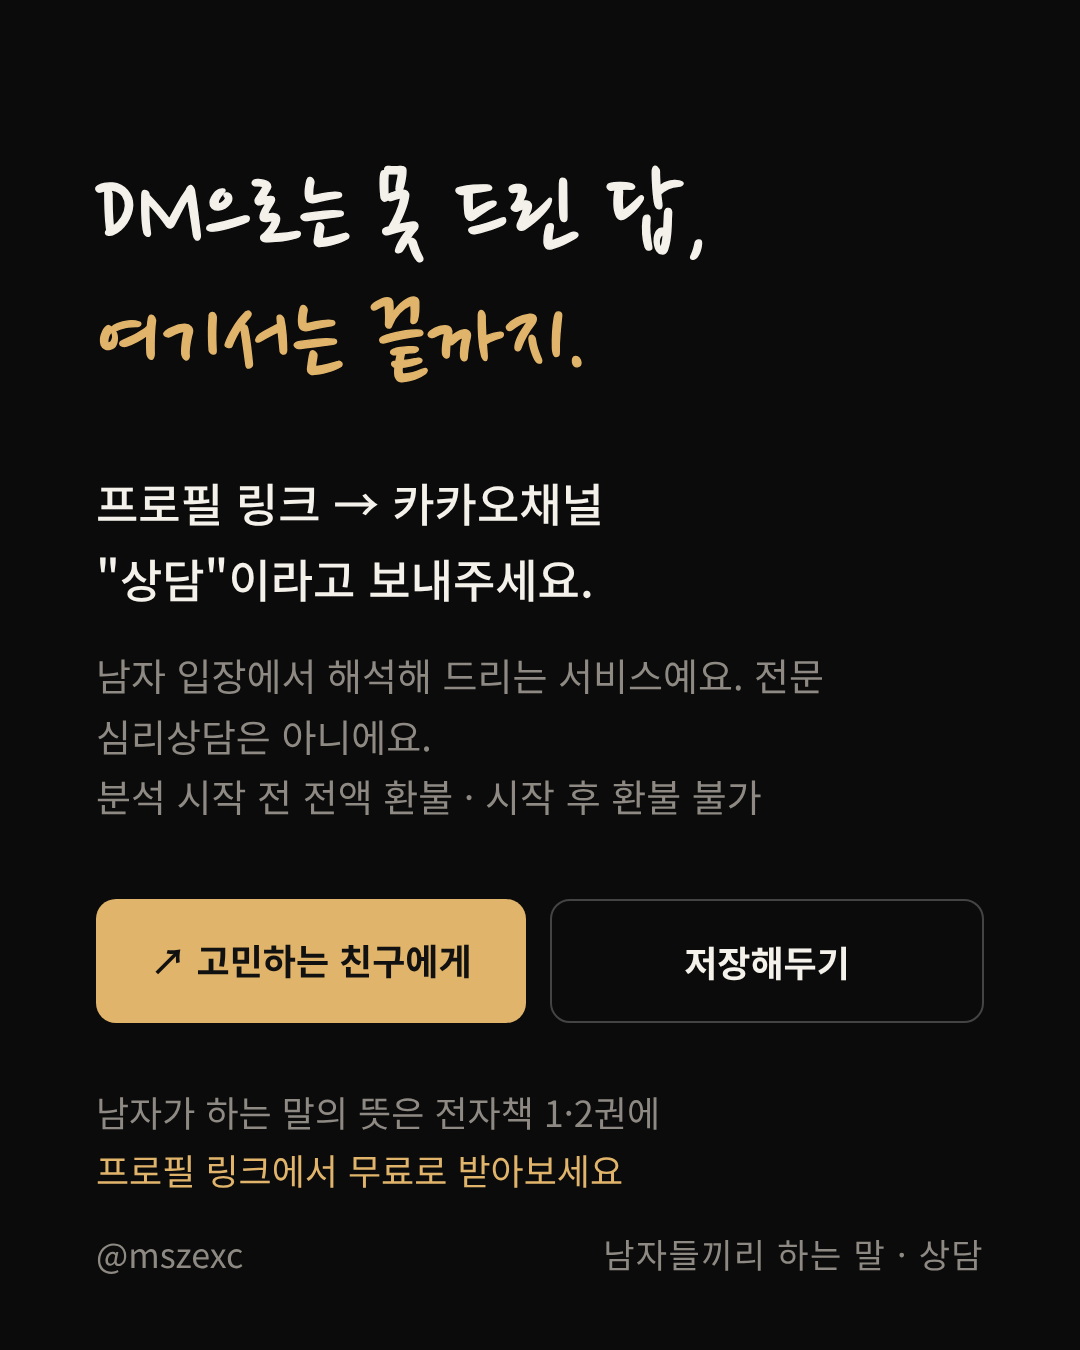
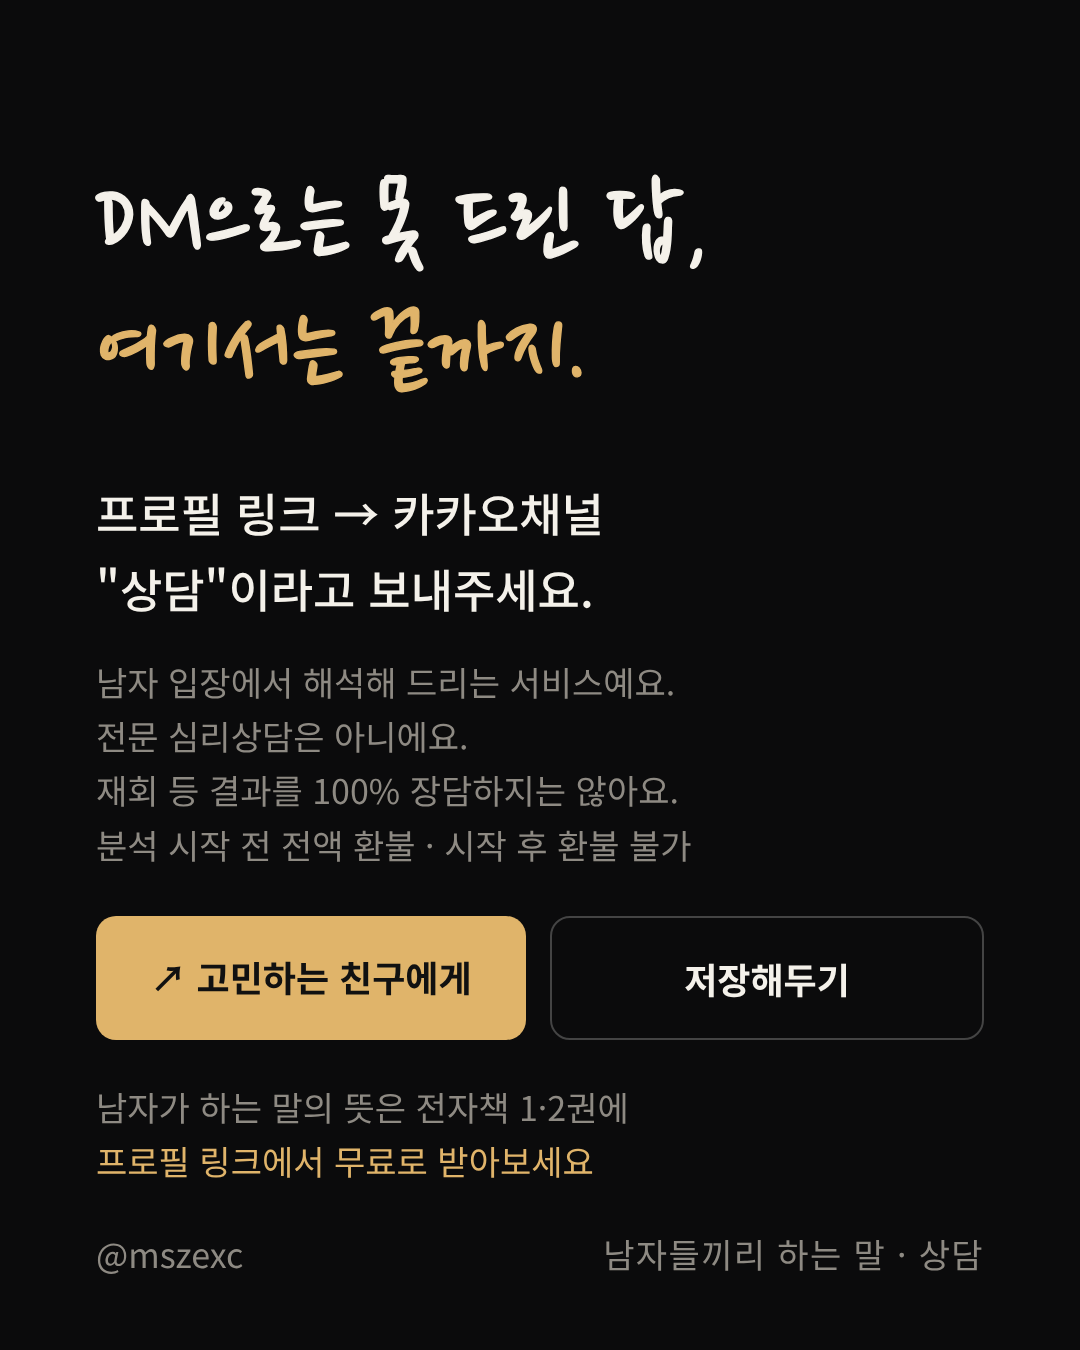
상담 신청서: 안전 확인 칸 삭제, 결과 100% 비보장 문구·확인란 추가
Claude-Session: https://claude.ai/code/session_01J9i5yL8MFhQ5W67Sx3nDW6

diff --git a/carousel/carousel_consult.html b/carousel/carousel_consult.html
@@ -277,12 +277,12 @@
 <section class="slide" id="s10">
   <div class="pen h2">DM으로는 못 드린 답,<br><span class="accent">여기서는 끝까지.</span></div>
   <div class="body mt-m">프로필 링크 → 카카오채널<br>"상담"이라고 보내주세요.</div>
-  <div class="small mt-s">남자 입장에서 해석해 드리는 서비스예요. 전문 심리상담은 아니에요.<br>분석 시작 전 전액 환불 · 시작 후 환불 불가</div>
-  <div class="btns">
+  <div class="small mt-s" style="font-size:34px !important">남자 입장에서 해석해 드리는 서비스예요.<br>전문 심리상담은 아니에요.<br>재회 등 결과를 100% 장담하지는 않아요.<br>분석 시작 전 전액 환불 · 시작 후 환불 불가</div>
+  <div class="btns" style="margin-top:44px">
     <div class="btn share">↗ 고민하는 친구에게</div>
     <div class="btn save">저장해두기</div>
   </div>
-  <div class="sub" style="font-size:36px">남자가 하는 말의 뜻은 전자책 1·2권에<br><span class="accent">프로필 링크에서 무료로 받아보세요</span></div>
+  <div class="sub" style="font-size:34px;margin-top:40px">남자가 하는 말의 뜻은 전자책 1·2권에<br><span class="accent">프로필 링크에서 무료로 받아보세요</span></div>
   <div class="handle">@mszexc</div>
   <div class="series">남자들끼리 하는 말 · 상담</div>
 </section>

diff --git a/consult/menu.py b/consult/menu.py
@@ -51,11 +51,13 @@ GUIDE = '''[남자들끼리 하는 말 · 남자 심리 분석]
 3) 신청서 + 사진 + 캡처를 보내주시면 분석을 시작합니다
 
 ※ 남자 입장에서 상황을 해석해 드리는 서비스이며, 전문 심리상담이 아닙니다.
+※ 재회, 관계 회복 등 원하시는 결과를 100% 장담하지 않습니다. 상대의 마음과 선택은 상대에게 달려 있어서, 제가 드리는 건 가능성을 높이는 해석과 방법입니다.
 ※ 분석 작성 시작 전에는 전액 환불, 시작 후에는 환불이 어렵습니다.
 ※ 오픈 기념: 첫 10분이 B를 신청하시면 카톡 첨삭 2건을 무료로 드려요.'''
 FORM = '''[남자들끼리 하는 말 · 남자 심리 분석 신청서]
 
 ※ 남자 입장에서 상황을 해석해 드리는 서비스이며, 전문 심리상담이 아닙니다.
+※ 재회, 관계 회복 등 원하시는 결과를 100% 장담하지 않습니다. 상대의 마음과 선택은 상대에게 달려 있어서, 제가 드리는 건 가능성을 높이는 해석과 방법입니다.
 ※ 신청 상품: □ A 남자 심리 분석  □ B 분석 + 대본  □ C 4주 플랜
 
 ■ 1. 기본 정보
@@ -94,11 +96,8 @@ FORM = '''[남자들끼리 하는 말 · 남자 심리 분석 신청서]
 20) □ 재회  □ 관계 회복  □ 그의 속마음만 알고 싶음  □ 깔끔하게 정리  □ 아직 모르겠음
 21) 꼭 답받고 싶은 질문 (1~3개):
 
-■ 8. 안전 확인
-22) 상대에게 폭언, 폭력, 위협, 집착(스토킹)을 겪고 있나요? 예 / 아니요
-   → "예"라면 상담보다 안전이 먼저예요. 여성긴급전화 1366(24시간)에 먼저 연락해 주세요.
-
-■ 9. 개인정보 동의
+■ 8. 확인 및 개인정보 동의
+□ (필수) 재회·관계 회복 등 원하는 결과를 100% 장담하지 않는다는 점을 확인했습니다.
 □ (필수) 이름, 나이, 사진, 대화 내용을 상담 목적으로만 수집·이용하는 데 동의합니다.
    사진은 상담 종료 즉시, 나머지 정보는 상담 종료 30일 후 삭제합니다.
 □ (선택) 이름과 상황을 바꾼 익명 사연으로 콘텐츠에 쓰는 데 동의합니다.'''

diff --git a/consult/menu.md b/consult/menu.md
@@ -69,6 +69,7 @@
 3) 신청서 + 사진 + 캡처를 보내주시면 분석을 시작합니다
 
 ※ 남자 입장에서 상황을 해석해 드리는 서비스이며, 전문 심리상담이 아닙니다.
+※ 재회, 관계 회복 등 원하시는 결과를 100% 장담하지 않습니다. 상대의 마음과 선택은 상대에게 달려 있어서, 제가 드리는 건 가능성을 높이는 해석과 방법입니다.
 ※ 분석 작성 시작 전에는 전액 환불, 시작 후에는 환불이 어렵습니다.
 ※ 오픈 기념: 첫 10분이 B를 신청하시면 카톡 첨삭 2건을 무료로 드려요.
 ```
@@ -78,6 +79,7 @@
 [남자들끼리 하는 말 · 남자 심리 분석 신청서]
 
 ※ 남자 입장에서 상황을 해석해 드리는 서비스이며, 전문 심리상담이 아닙니다.
+※ 재회, 관계 회복 등 원하시는 결과를 100% 장담하지 않습니다. 상대의 마음과 선택은 상대에게 달려 있어서, 제가 드리는 건 가능성을 높이는 해석과 방법입니다.
 ※ 신청 상품: □ A 남자 심리 분석  □ B 분석 + 대본  □ C 4주 플랜
 
 ■ 1. 기본 정보
@@ -116,11 +118,8 @@
 20) □ 재회  □ 관계 회복  □ 그의 속마음만 알고 싶음  □ 깔끔하게 정리  □ 아직 모르겠음
 21) 꼭 답받고 싶은 질문 (1~3개):
 
-■ 8. 안전 확인
-22) 상대에게 폭언, 폭력, 위협, 집착(스토킹)을 겪고 있나요? 예 / 아니요
-   → "예"라면 상담보다 안전이 먼저예요. 여성긴급전화 1366(24시간)에 먼저 연락해 주세요.
-
-■ 9. 개인정보 동의
+■ 8. 확인 및 개인정보 동의
+□ (필수) 재회·관계 회복 등 원하는 결과를 100% 장담하지 않는다는 점을 확인했습니다.
 □ (필수) 이름, 나이, 사진, 대화 내용을 상담 목적으로만 수집·이용하는 데 동의합니다.
    사진은 상담 종료 즉시, 나머지 정보는 상담 종료 30일 후 삭제합니다.
 □ (선택) 이름과 상황을 바꾼 익명 사연으로 콘텐츠에 쓰는 데 동의합니다.
